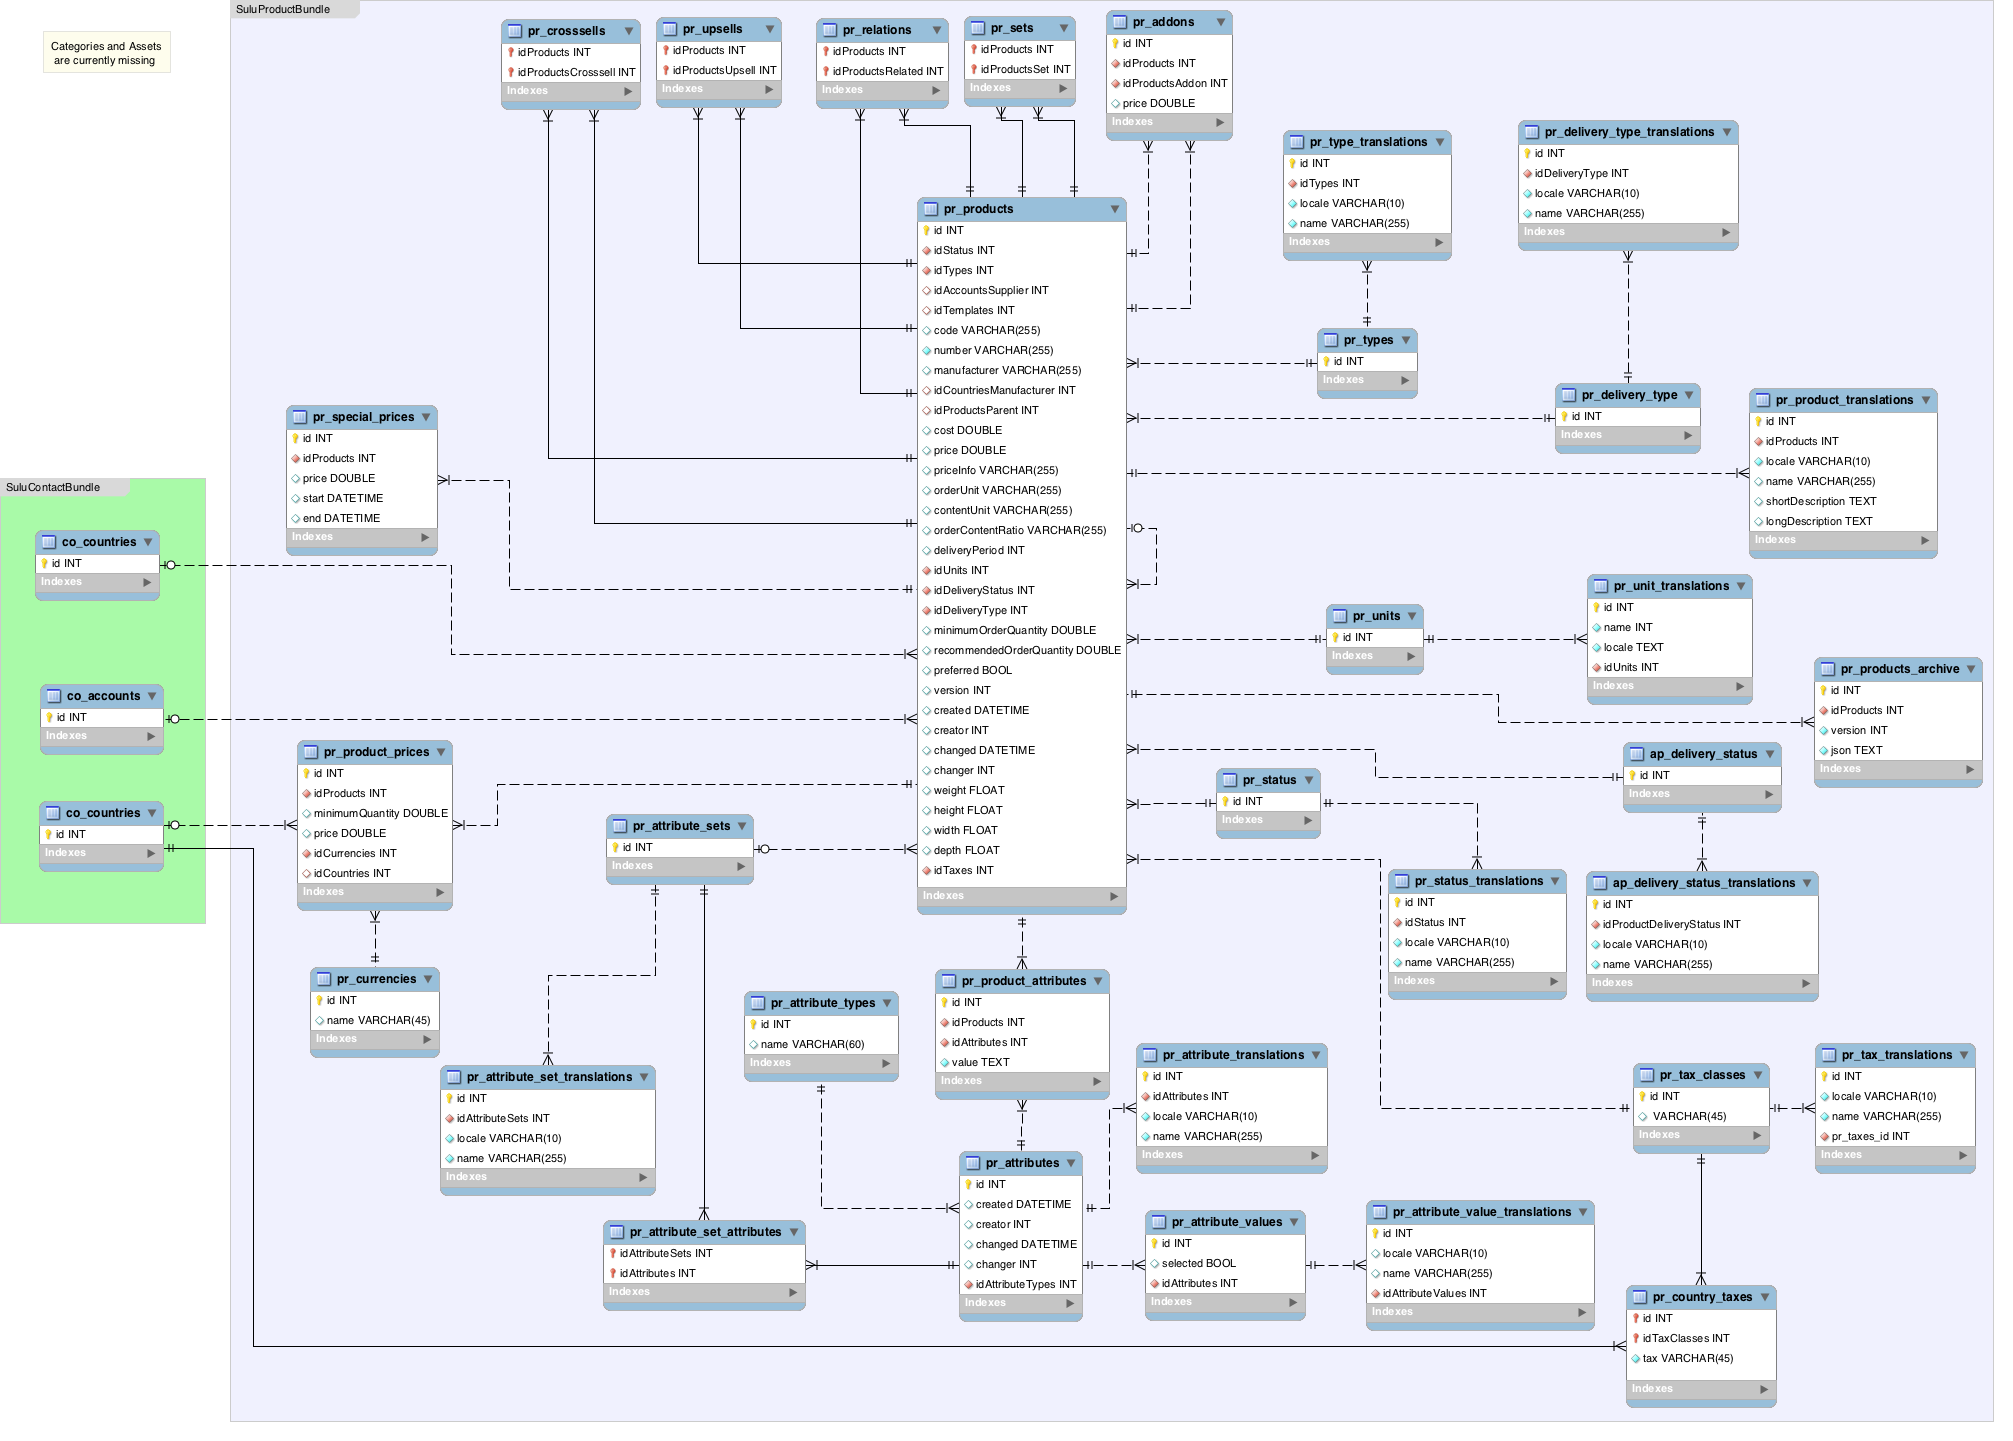
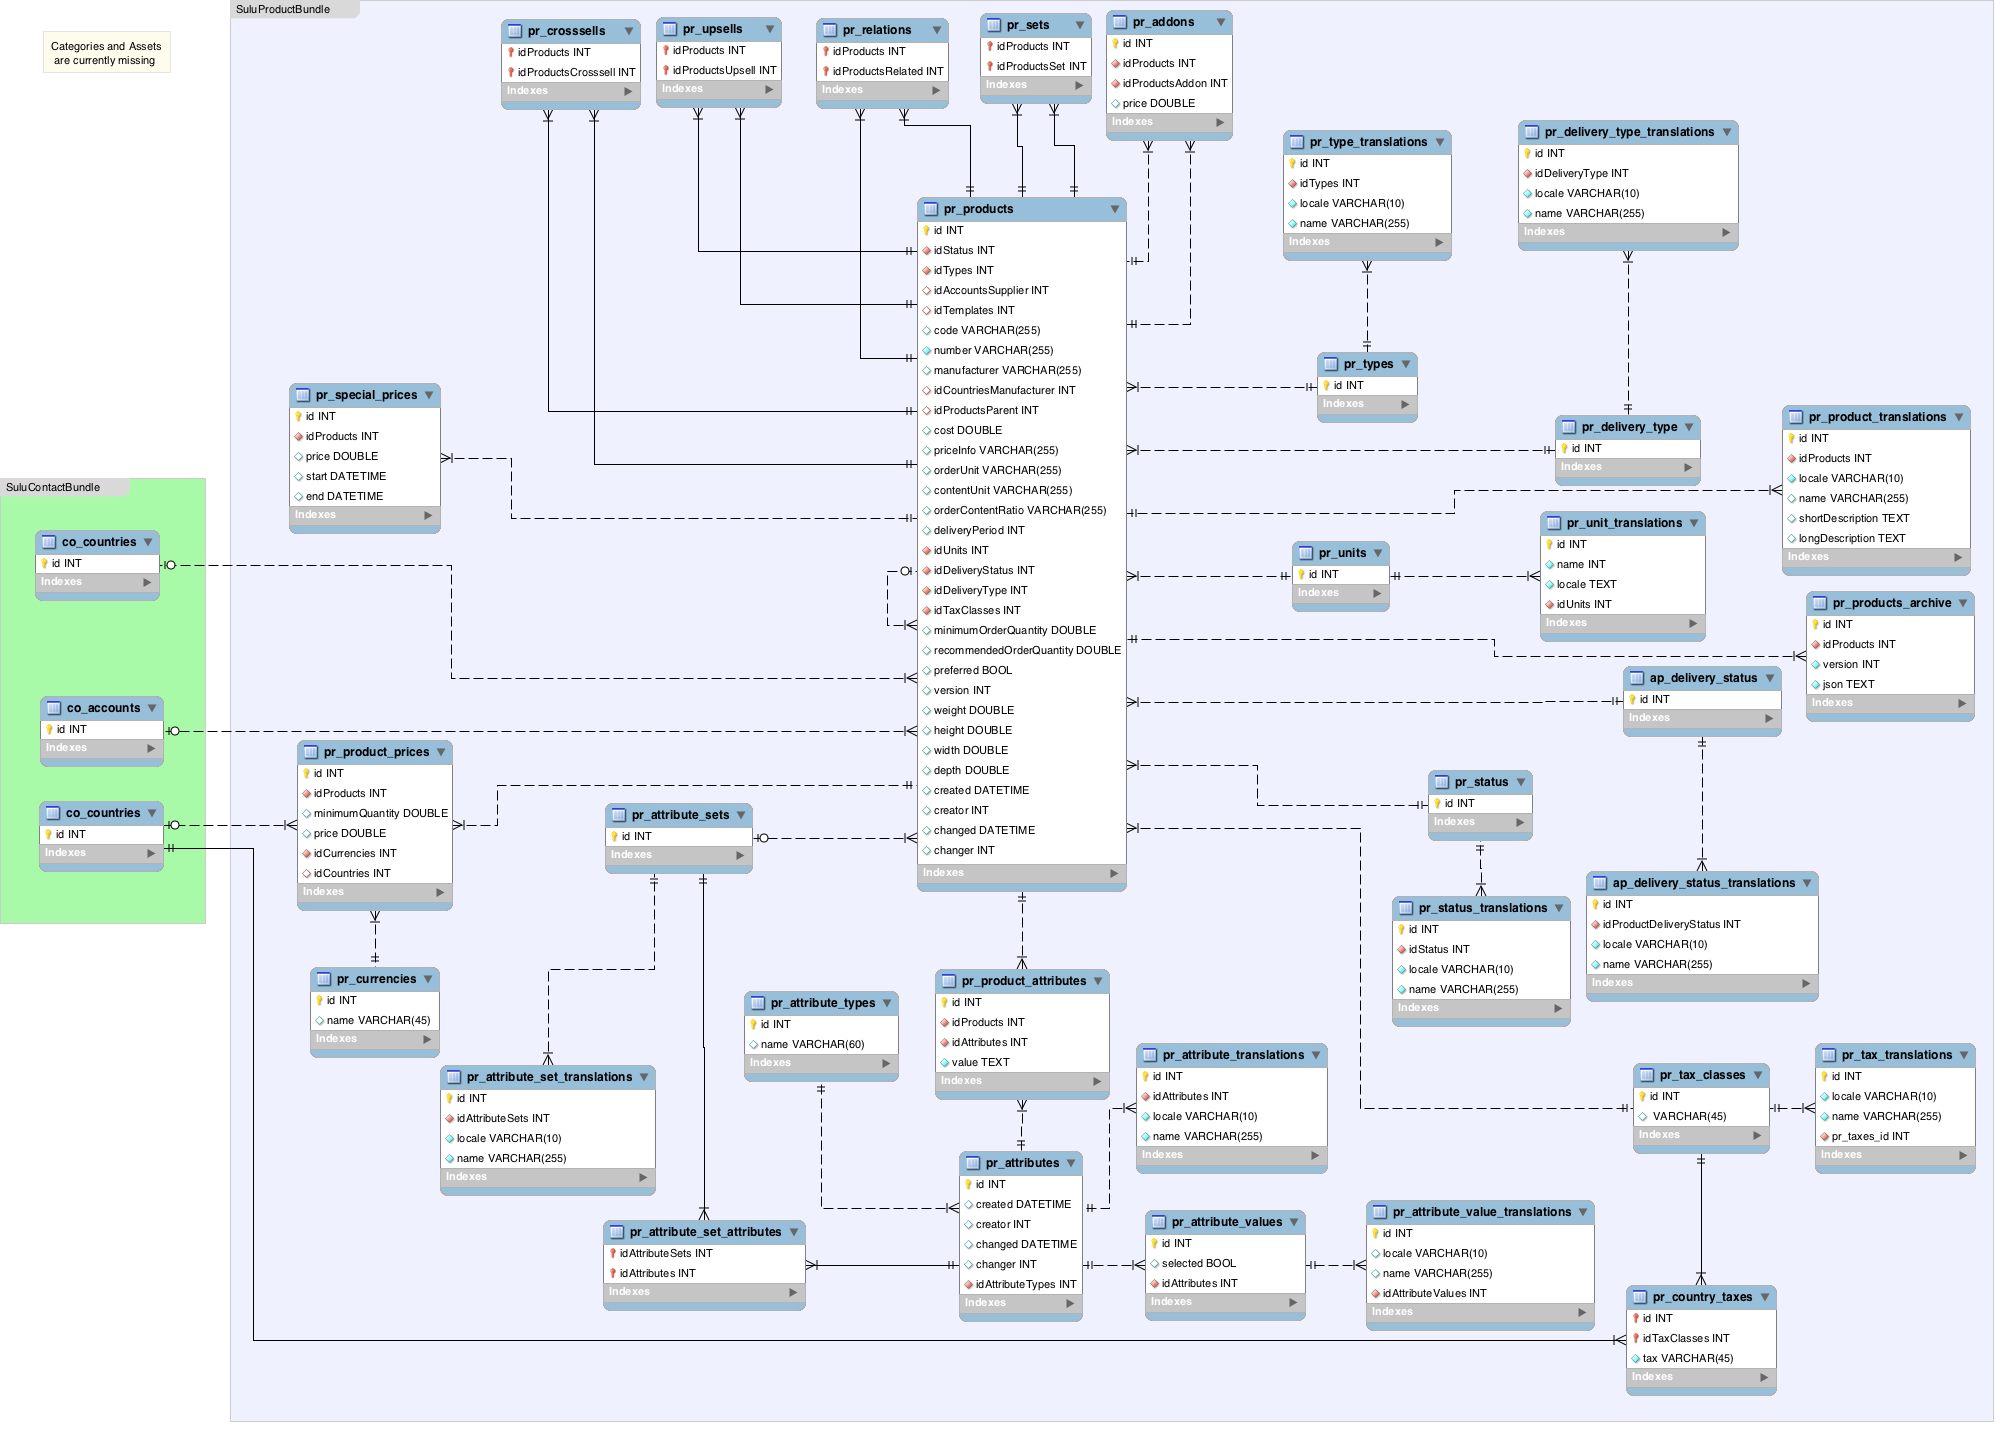
updated product price diagrams

diff --git a/detail-specification/600-global/DET-601-products.md b/detail-specification/600-global/DET-601-products.md
@@ -29,4 +29,3 @@ Additionaly there is the table `pr_sets`, which is used only for ProductSets, an
 ##### Configureable options
 There are tables lik `pr_delivery_type` or `pr_delivery_status`, which can hold additional information base on the configurations of the bundle.
 
-Another configureable option is the pricing. In addition to the `price`-field in the base entity, you can also save the prices along with a minimum quantity, so that you can offer a discount on high number orders.
